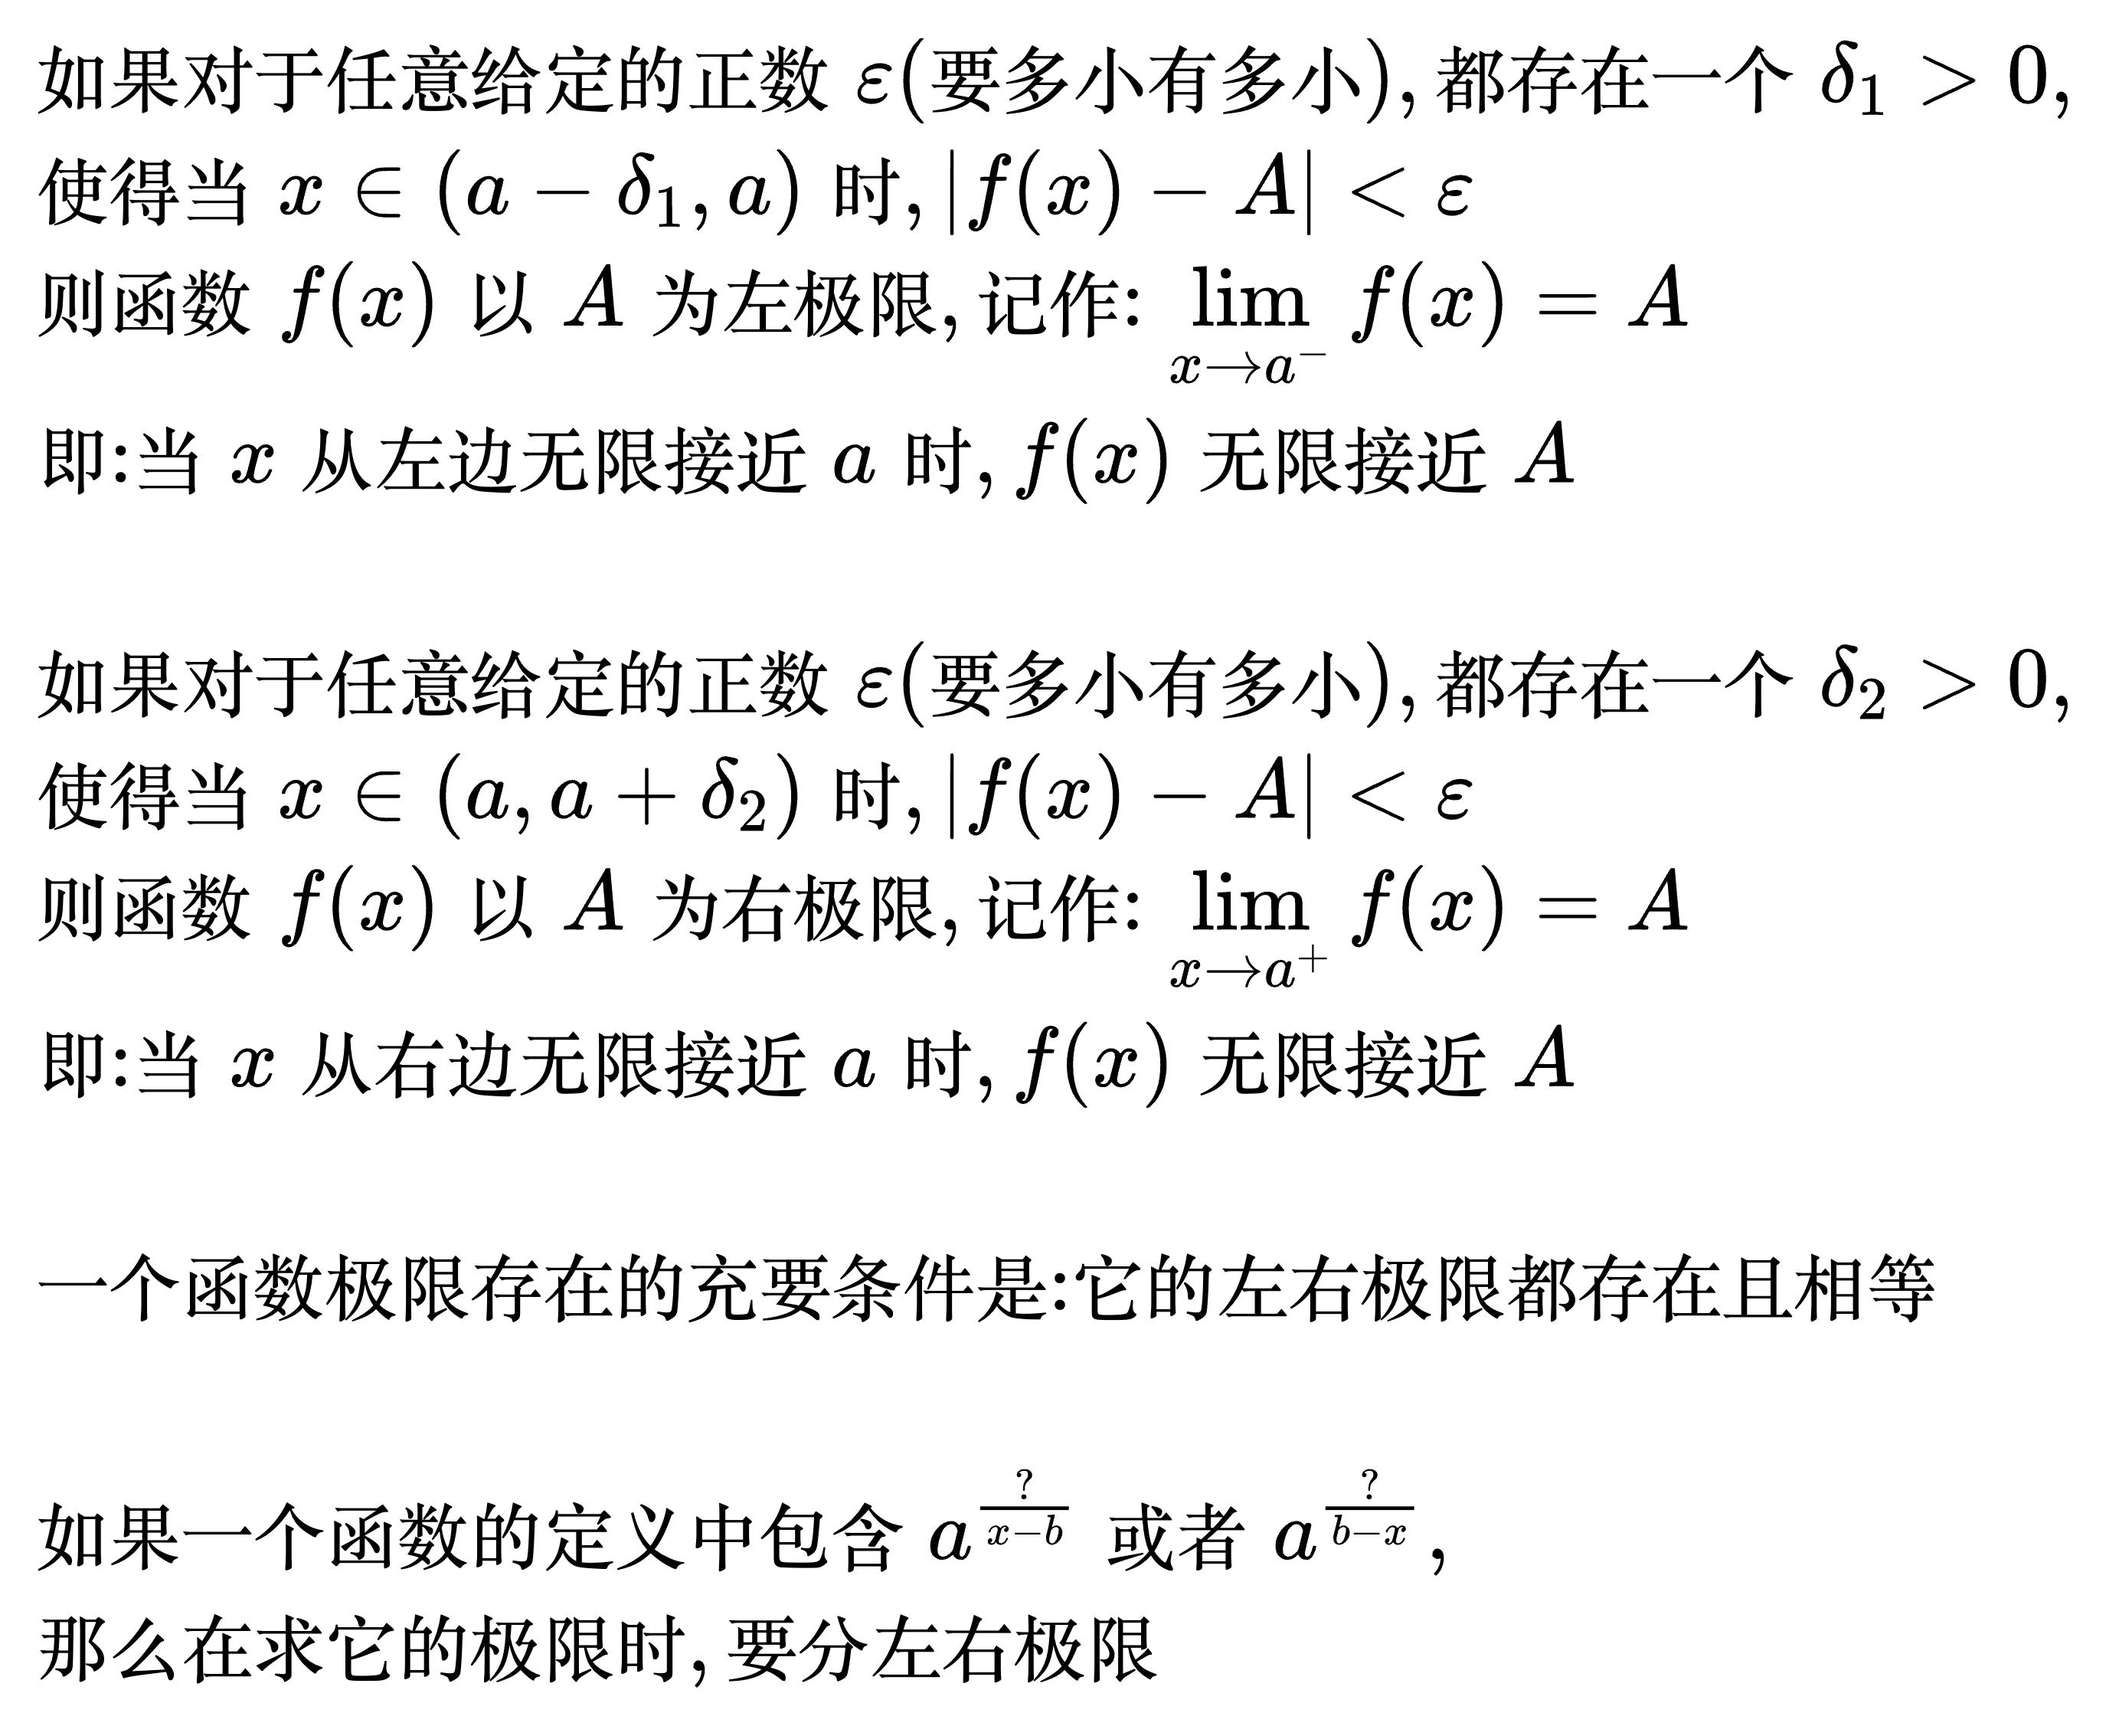
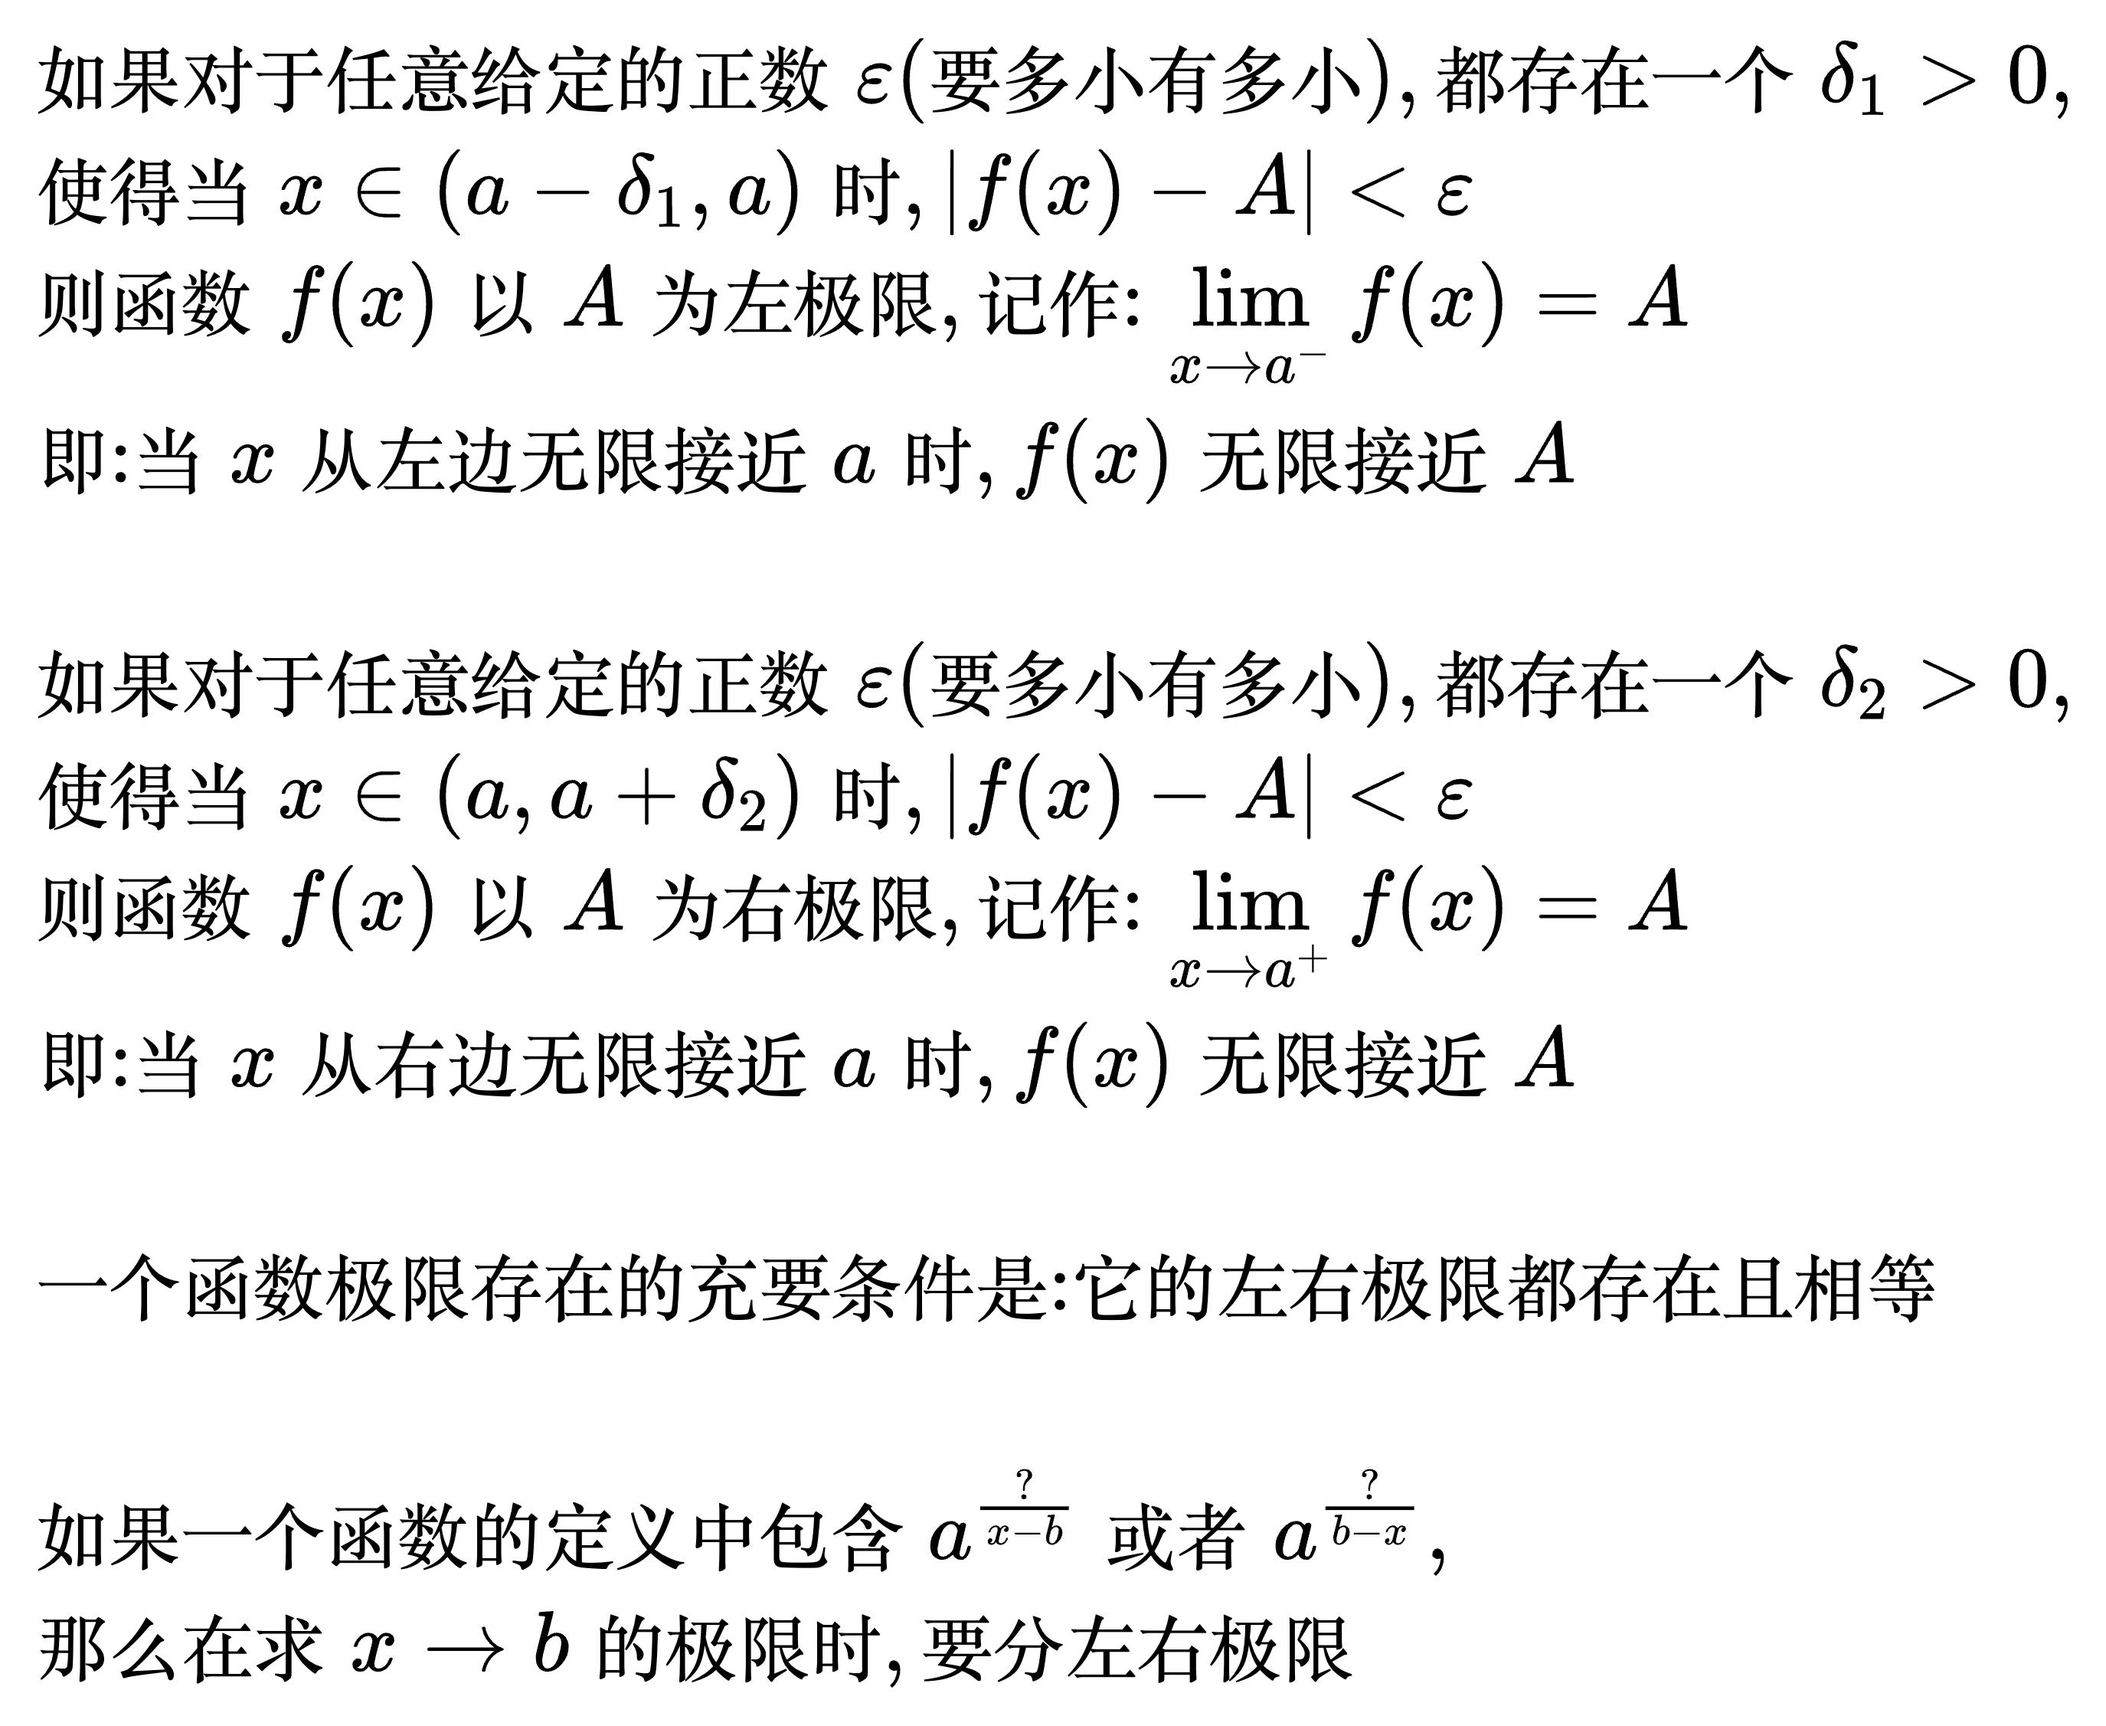
1

Changed region(s): [[0.1545, 0.9321, 0.6491, 0.9942]]

diff --git a/base/computer_organization/src/io/disk.md b/base/computer_organization/src/io/disk.md
@@ -1,0 +1,93 @@
+# 硬磁盘存储器
+
+结构:
+
+- 碟片
+- 磁盘驱动器: 包括主轴、定位驱动和数据控制器三部分，作用是接收由主机发来的命令，将它换成磁盘驱动器的控制命令，实现主机和驱动器之间的数据格式转换和数据传送，并控制驱动器的读/写
+
+## 硬磁盘轨道记录格式:
+
+### 磁头数
+
+在硬盘内部，通常有多张盘片（Platter）堆叠在一起，每张盘片的上下两面都可以存储数据，而每一个存储面都对应着一个磁头。
+
+磁头数就是指硬盘中用于读写数据的磁头的数量。早期的硬盘盘片数量较多，磁头数也相应较多；而现在的硬盘则通过提高单盘片的存储容量，减少了盘片数量和磁头数，同时也降低了硬盘的功耗和体积。
+
+记录面指的是存储设备上可用于记录数据的表面，而记录面数就是可用于记录数据的表面的数量。
+
+磁头数等于记录面数。
+
+### 柱面数
+
+硬盘通常由多个盘片堆叠在一起，每个盘片的上下两面都可以存储数据，每个盘片表面又被划分成许多同心圆，这些同心圆就称为磁道（Track）。当把所有盘片上相同半径的磁道组合在一起时，就形成了一个柱面（Cylinder）。例如，硬盘有 3 个盘片，每个盘片有上下两个面，总共 6 个记录面。每个记录面上都有一系列的磁道，当我们选取所有记录面上半径相同的磁道时，这些磁道就构成了一个柱面。
+
+柱面数: 表示硬盘每一面盘面上有多少磁道。
+
+### 扇区数
+
+在硬盘的盘片上，每个磁道会被进一步划分成若干个弧段，这些弧段就被称为扇区（Sector）。扇区是硬盘进行数据存储和读写操作的最小物理单位。
+
+扇区数: 表示每一条磁道上有多少个扇区
+
+## 磁记录原理
+
+磁记录的基本原理基于磁性材料的两个重要特性：剩磁性和磁电转换。
+
+- 剩磁性：某些磁性材料（如铁氧体、金属磁粉等）在外部磁场的作用下会被磁化，当外部磁场消失后，这些材料仍能保留一定程度的磁性，即剩磁。剩磁的方向取决于外部磁场的方向，利用这一特性可以将信息以剩磁的形式存储在磁性材料中
+- 磁电转换：当磁头靠近具有剩磁的磁性材料时，磁头中的线圈会因磁通量的变化而产生感应电动势，反之，当给磁头的线圈通入电流时，会在线圈周围产生磁场，从而可以对磁性材料进行磁化。这种磁与电之间的相互转换是实现磁记录读写操作的基础
+
+磁记录的记录过程也就是将数据信息转换为磁性材料上剩磁状态的过程，具体步骤如下：
+
+1. 数据编码：计算机中的二进制数据（0 和 1）首先需要经过编码处理，转换为适合磁记录的信号形式。常见的编码方式有不归零制（NRZ）、调频制（FM）、改进调频制（MFM）等
+2. 产生磁场：经过编码的数据被送到硬盘的磁头驱动器，驱动器根据数据的不同状态（如 0 或 1）向磁头的线圈通入不同方向或大小的电流，从而在线圈周围产生相应的磁场
+3. 磁化介质：硬盘的盘片表面涂有一层磁性材料，当磁头靠近盘片表面并相对运动时，磁头产生的磁场会使盘片上的磁性材料被磁化。根据通入电流的方向不同，磁性材料被磁化后的剩磁方向也不同，这样就将二进制数据以剩磁的形式记录在了盘片上。例如，规定剩磁方向为正表示 1，剩磁方向为负表示 0
+
+磁记录的读取过程是将磁性材料上的剩磁状态转换为电信号并还原为原始数据的过程，具体步骤如下：
+
+1. 感应电动势：当磁头经过盘片上已经记录有剩磁的区域时，磁头中的线圈会感受到磁通量的变化，根据电磁感应定律，线圈中会产生感应电动势。感应电动势的大小和方向取决于磁通量变化的速率和剩磁的方向
+2. 信号放大与处理：磁头感应产生的电动势非常微弱，需要经过放大器进行放大处理。放大后的信号还需要经过滤波、整形等处理，以去除噪声和干扰，得到清晰的电信号
+3. 数据解码：经过处理后的电信号被送到解码器，解码器根据记录时采用的编码方式将电信号还原为原始的二进制数据。例如，如果记录时采用的是不归零制编码，解码器会根据电信号的极性判断是 0 还是 1
+
+## .磁盘地址
+
+```
+[驱动器号 | 柱面号 | 盘面号 | 扇区号]
+```
+
+## 磁盘阵列(RAID)
+
+RAID，是将多个独立的物理磁盘组成一个独立的逻辑盘，数据在多个物理盘上交叉存储、并行访问，存储性能、可靠性和安全性都较高。
+RAID 有 6 个分级，其中 RAID1~RAID5 无论何时有磁盘损坏，都可以随时拔出损坏的磁盘再插入好的磁盘，而数据不会丢失。
+
+- RAIDO: 无冗余，无校验的磁盘阵列
+- RAID1: 镜像磁盘阵列
+- RAID2: 含有可纠错的海明码校验
+- RAID3: 采用位交叉奇偶校验
+- RAID4: 采用块交叉奇偶校验
+- RAID5: 无独立校验的奇偶校验磁盘阵列
+
+## 磁盘访问时间
+
+- 寻道时间: 把磁头移动到指定磁道上所经历的时间
+- 旋转延迟时间: 扇区移动到磁头下面所经历的时间。通常我们用磁盘旋转一周时间的一半来估计。
+- 传输时间: 把数据从磁盘读出或向磁盘写入数据所经历的时间
+
+## 磁盘调度
+
+- 先先服务(FCFS): 按照进程请求访问磁盘的先后顺序依次处理请求。即先到达的请求先被服务，后到达的请求依次排队等待
+- 最短寻道时间优先(SSTF): 优先处理距离当前磁头位置最近的请求，使得每次寻道的时间最短
+- 扫描(SCAN)算法: 磁头在一个方向（如从磁盘的最内侧向最外侧）上移动，依次处理经过的请求，直到到达磁盘的边缘，然后改变移动方向，继续处理反方向上的请求。类似于电梯的运行方式，所以也叫电梯算法
+- 循环扫描(CSCAN)算法: 磁头总是沿着一个方向（如从磁盘的最内侧向最外侧）移动，依次处理经过的请求，当到达磁盘边缘后，磁头立即返回到磁盘的另一侧起始位置，继续向原来的方向移动并处理请求。与 SCAN 算法不同的是，它不会在返回时处理请求
+- LOOK 算法: 与 SCAN 算法类似，但磁头只移动到最远端的请求位置，而不需要移动到磁盘的物理边缘。当磁头移动到最远端请求位置后，就改变移动方向
+
+磁盘驱动器有 5000 个柱面，从 0 到 4999，当前磁头在柱面 143 上处理，前一个处理位置为柱面 125。按 FIFO 顺序，将要处理的请求队列是: 86,1470,913,1774,948,1509,1022,1750,130。从当前磁头位置开始，按照下面的磁盘调度算法，要满足队列中即将到来的请求要求磁头总的移动距离(按柱面数计)是多少？
+
+(1) FCFS
+
+(2) SSTF
+
+(3) SCAN
+
+(4) LOOK
+
+(5) C-SCAN

diff --git a/base/computer_organization/src/bus/timing.md b/base/computer_organization/src/bus/timing.md
@@ -30,3 +30,17 @@
 - 不互锁方式: 主设备发出“请求”信号后，不必等到接到从设备的“回答”信号，而是经过一段时间便撤销“请求”信号。而从设备在接到“请求”信号后，发出“回答”信号，并经过一段时间，自动撤销“回答”信号，双方不存在互锁关系
 - 半互锁方式: 主设备发出“请求”信号后，必须待接到从设备的“回答”信号后，才撤销“请求”信号，有互锁的关系。而从设备在接到“请求”信号后，发出“回答”信号，但不必等待获知主设备的“请求”信号己经撤销，而是隔一段时间后自动撤销“回答”信号，不存在互锁关系
 - 全互锁方式: 主设备发出“请求”信号后，必须待从设备“回答”后，才撤销“请求”信号；从设备发出“回答”信号，必须待获知主设备“请求”信号己撤销后，再撤销其“回答”信号。双方存在互锁关系
+
+## 比特率与波特率
+
+波特率指的是信号被调制以后在单位时间内的变化，即通信通道中信号改变状态或发生变化的次数，单位为 Bd(Baud per second)。
+
+比特率是指每秒传送的比特(bit)数，单位为 bps(bit per second)。
+
+比如每秒钟传送 240 个字符，而每个字符格式包含 10 位(1 个起始位，1 个停止位，8 个数据位)，这时的波特率为 240Bd, 比特率为 10 位\*240 个/秒=2400bps。
+
+如在一个传输系统中，若字符格式为: 1 位起始位、8 位数据位、1 位奇偶校验位、1 位终止位。假设比特率为 1200bps,则此时的波特率是多少？
+
+由题目知，当前传送一个字符所需的二进制位数为: 1+8+1+1=11 位
+
+由比特率为 1200bps 可知波特率为: 1200/11= 109.09Bd

diff --git a/base/computer_organization/src/io/dev.md b/base/computer_organization/src/io/dev.md
@@ -1,0 +1,34 @@
+# 外部设备
+
+## 输入设备
+
+键盘、鼠标、触屏、麦克风、扫描仪、摄像头等。
+
+## 输出设备
+
+### 显示器
+
+- 屏幕大小: 以对角线长度来表示
+- 灰度级: 就是指纯白、纯黑以及两者中的一系列从黑到白的过渡色的多少
+- 分辨率: 即像素个数，以纵横方向像素个数乘积表示，如: 800 x 600
+- 刷新频率: 光点只能维持很短的时间，为此必须在光点消失之前再重新显示一遍，这个过程称之为刷新，单位时间内整个屏幕中所有光点的刷新次数称之为刷新频率
+
+### 打印机
+
+- 喷墨打印机
+- 针式打印机
+- 激光打印机
+
+### 外存储器
+
+- 硬磁盘存储器
+- 光盘
+
+光盘的特点: 存储密度高，成本低、容量大、携带方便、存储期长等。
+
+光盘的分类:
+
+- CD-ROM: 只读光盘
+- CD-R: 只可写入一次的光盘
+- CD-RW: 可读可写光盘，可以重复读写
+- DVD-ROM: 高容量的 CD-ROM

diff --git a/base/math/src/further_mathematics/limit3.md b/base/math/src/further_mathematics/limit3.md
@@ -15,7 +15,7 @@
 & 一个函数极限存在的充要条件是: 它的左右极限都存在且相等 \\
 \\
 & 如果一个函数的定义中包含 a^{\frac{?}{x - b}} 或者 a^{\frac{?}{b - x}}, \\
-& 那么在求它的极限时, 要分左右极限 \\
+& 那么在求 x \to b 的极限时, 要分左右极限 \\
 \end{align}
 -->
 

diff --git a/base/computer_organization/src/SUMMARY.md b/base/computer_organization/src/SUMMARY.md
@@ -47,3 +47,7 @@
   - [总线的性能指标](./bus/indicators.md)
   - [总线仲裁](./bus/arbitration.md)
   - [总线定时](./bus/timing.md)
+
+- [I/O系统](./io/io.md)
+  - [外部设备](./io/dev.md)
+    - [硬磁盘存储器](./io/disk.md)

diff --git a/base/computer_organization/src/io/io.md b/base/computer_organization/src/io/io.md
@@ -1,0 +1,1 @@
+# I/O 系统
